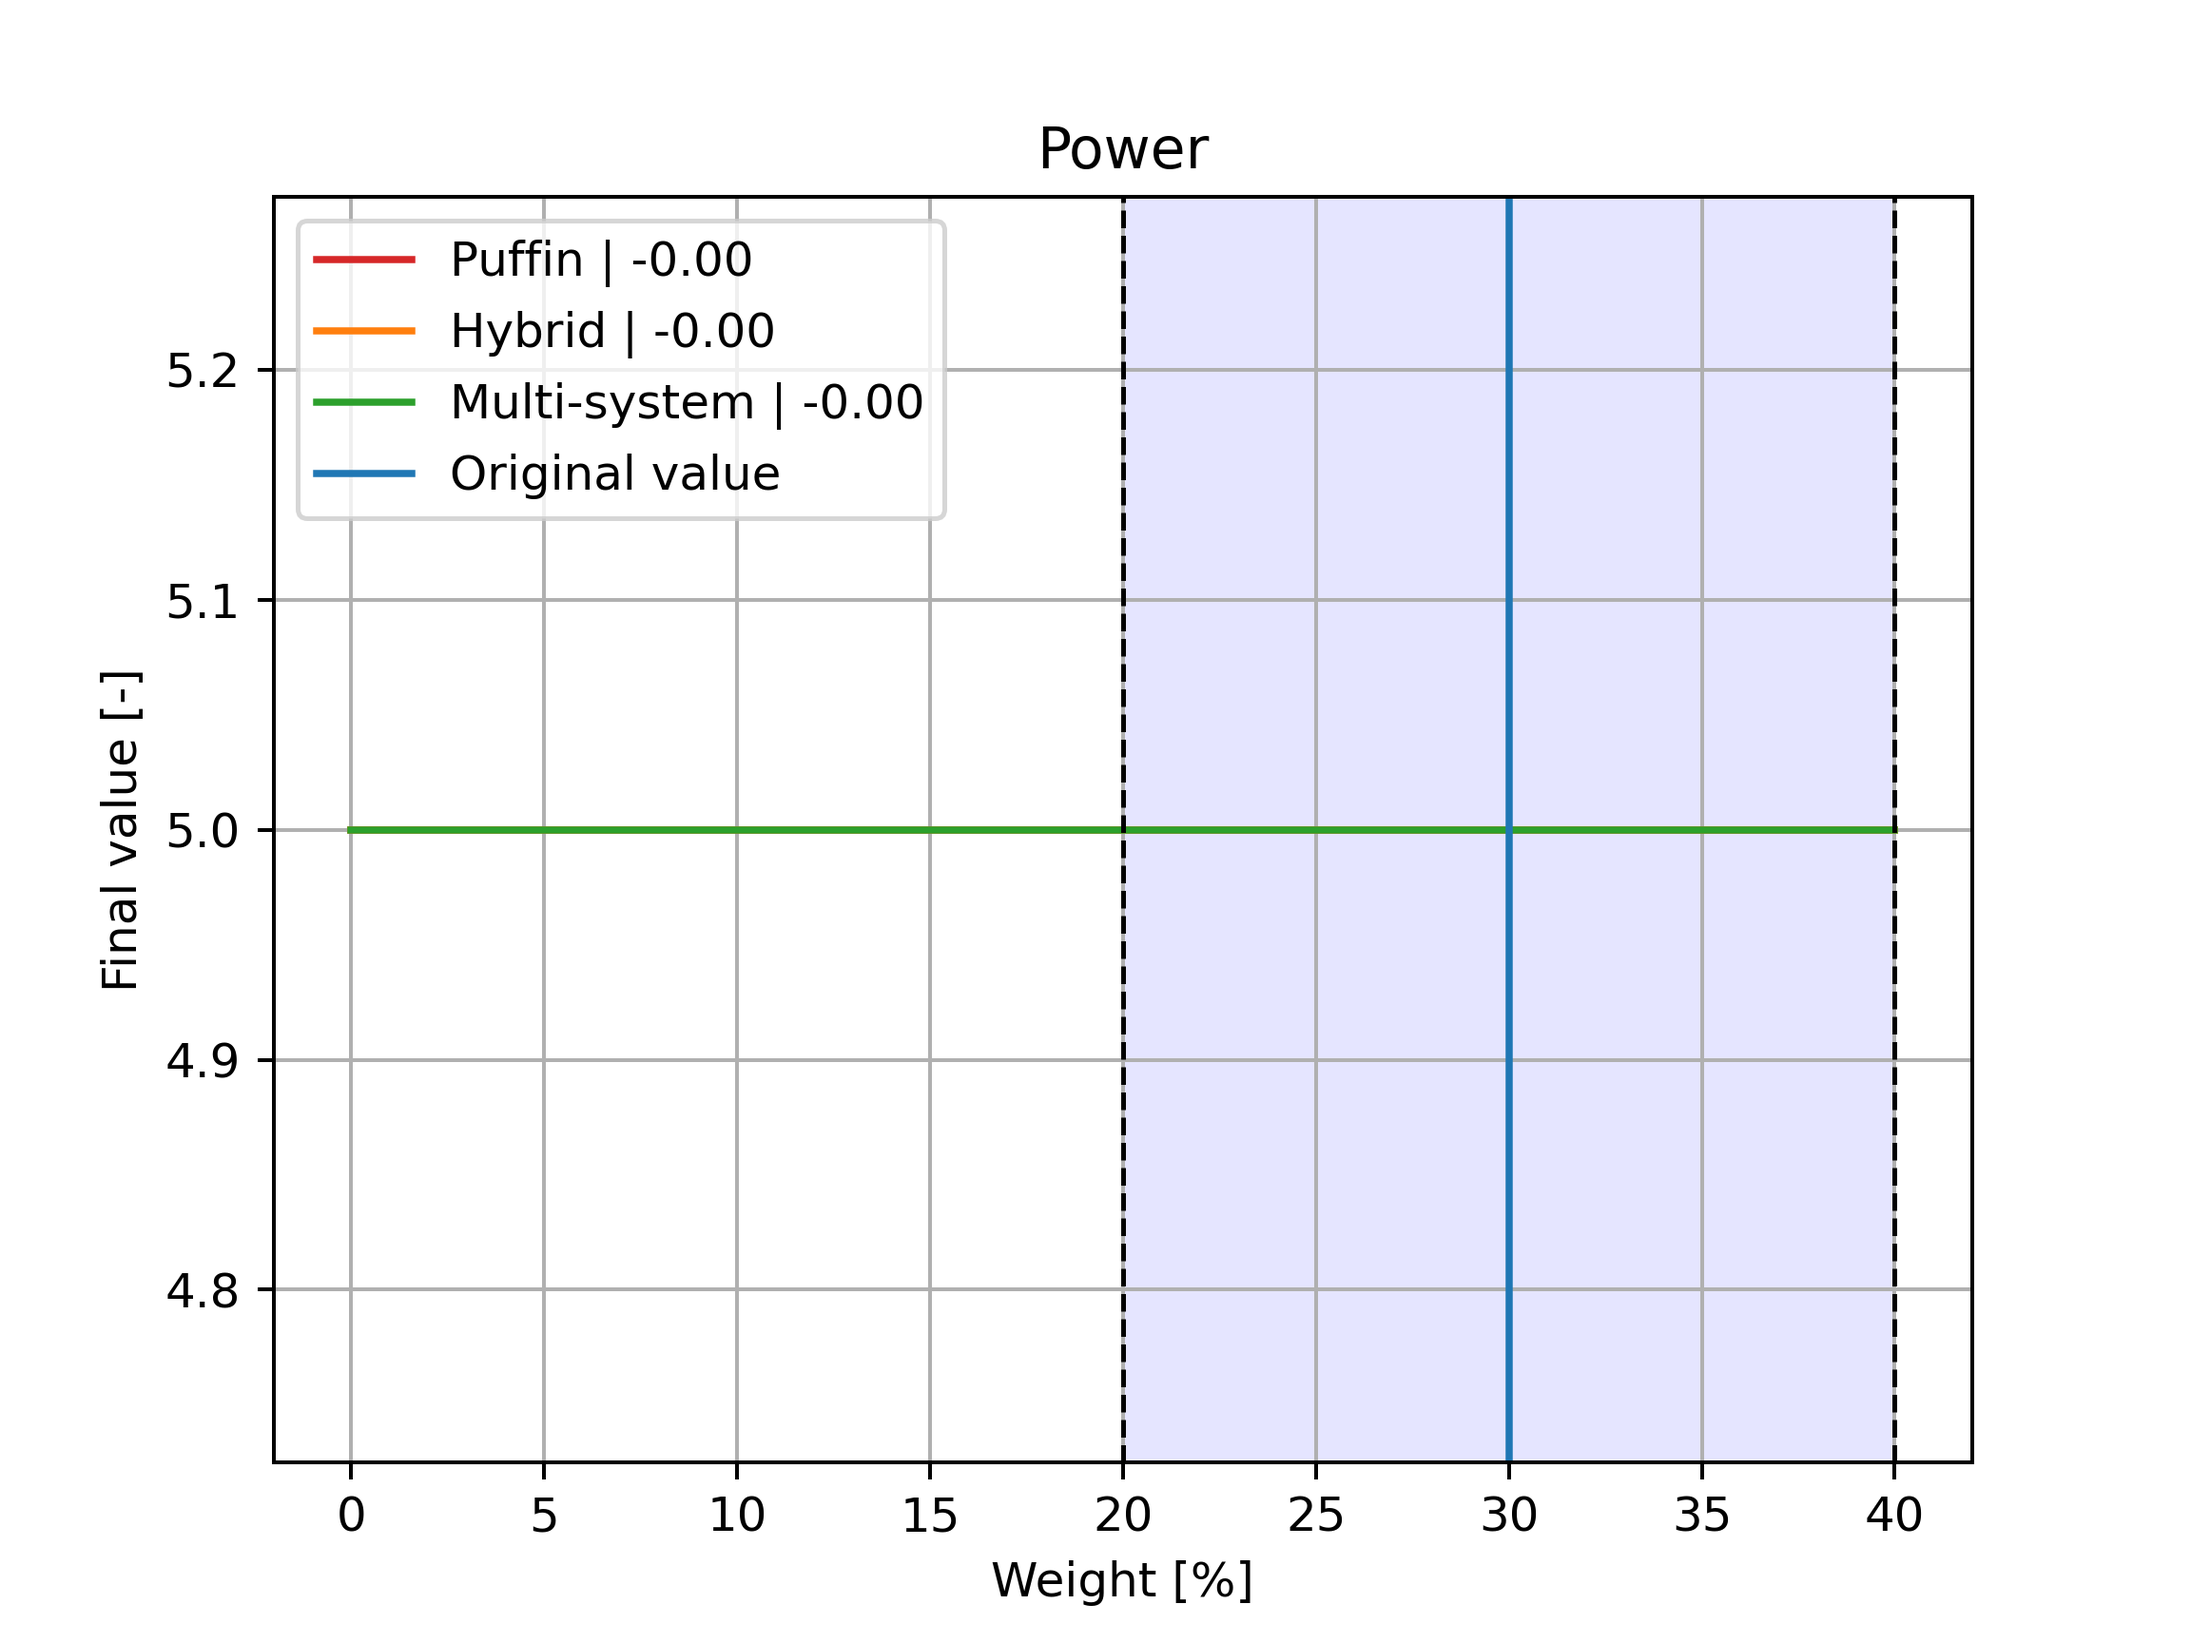
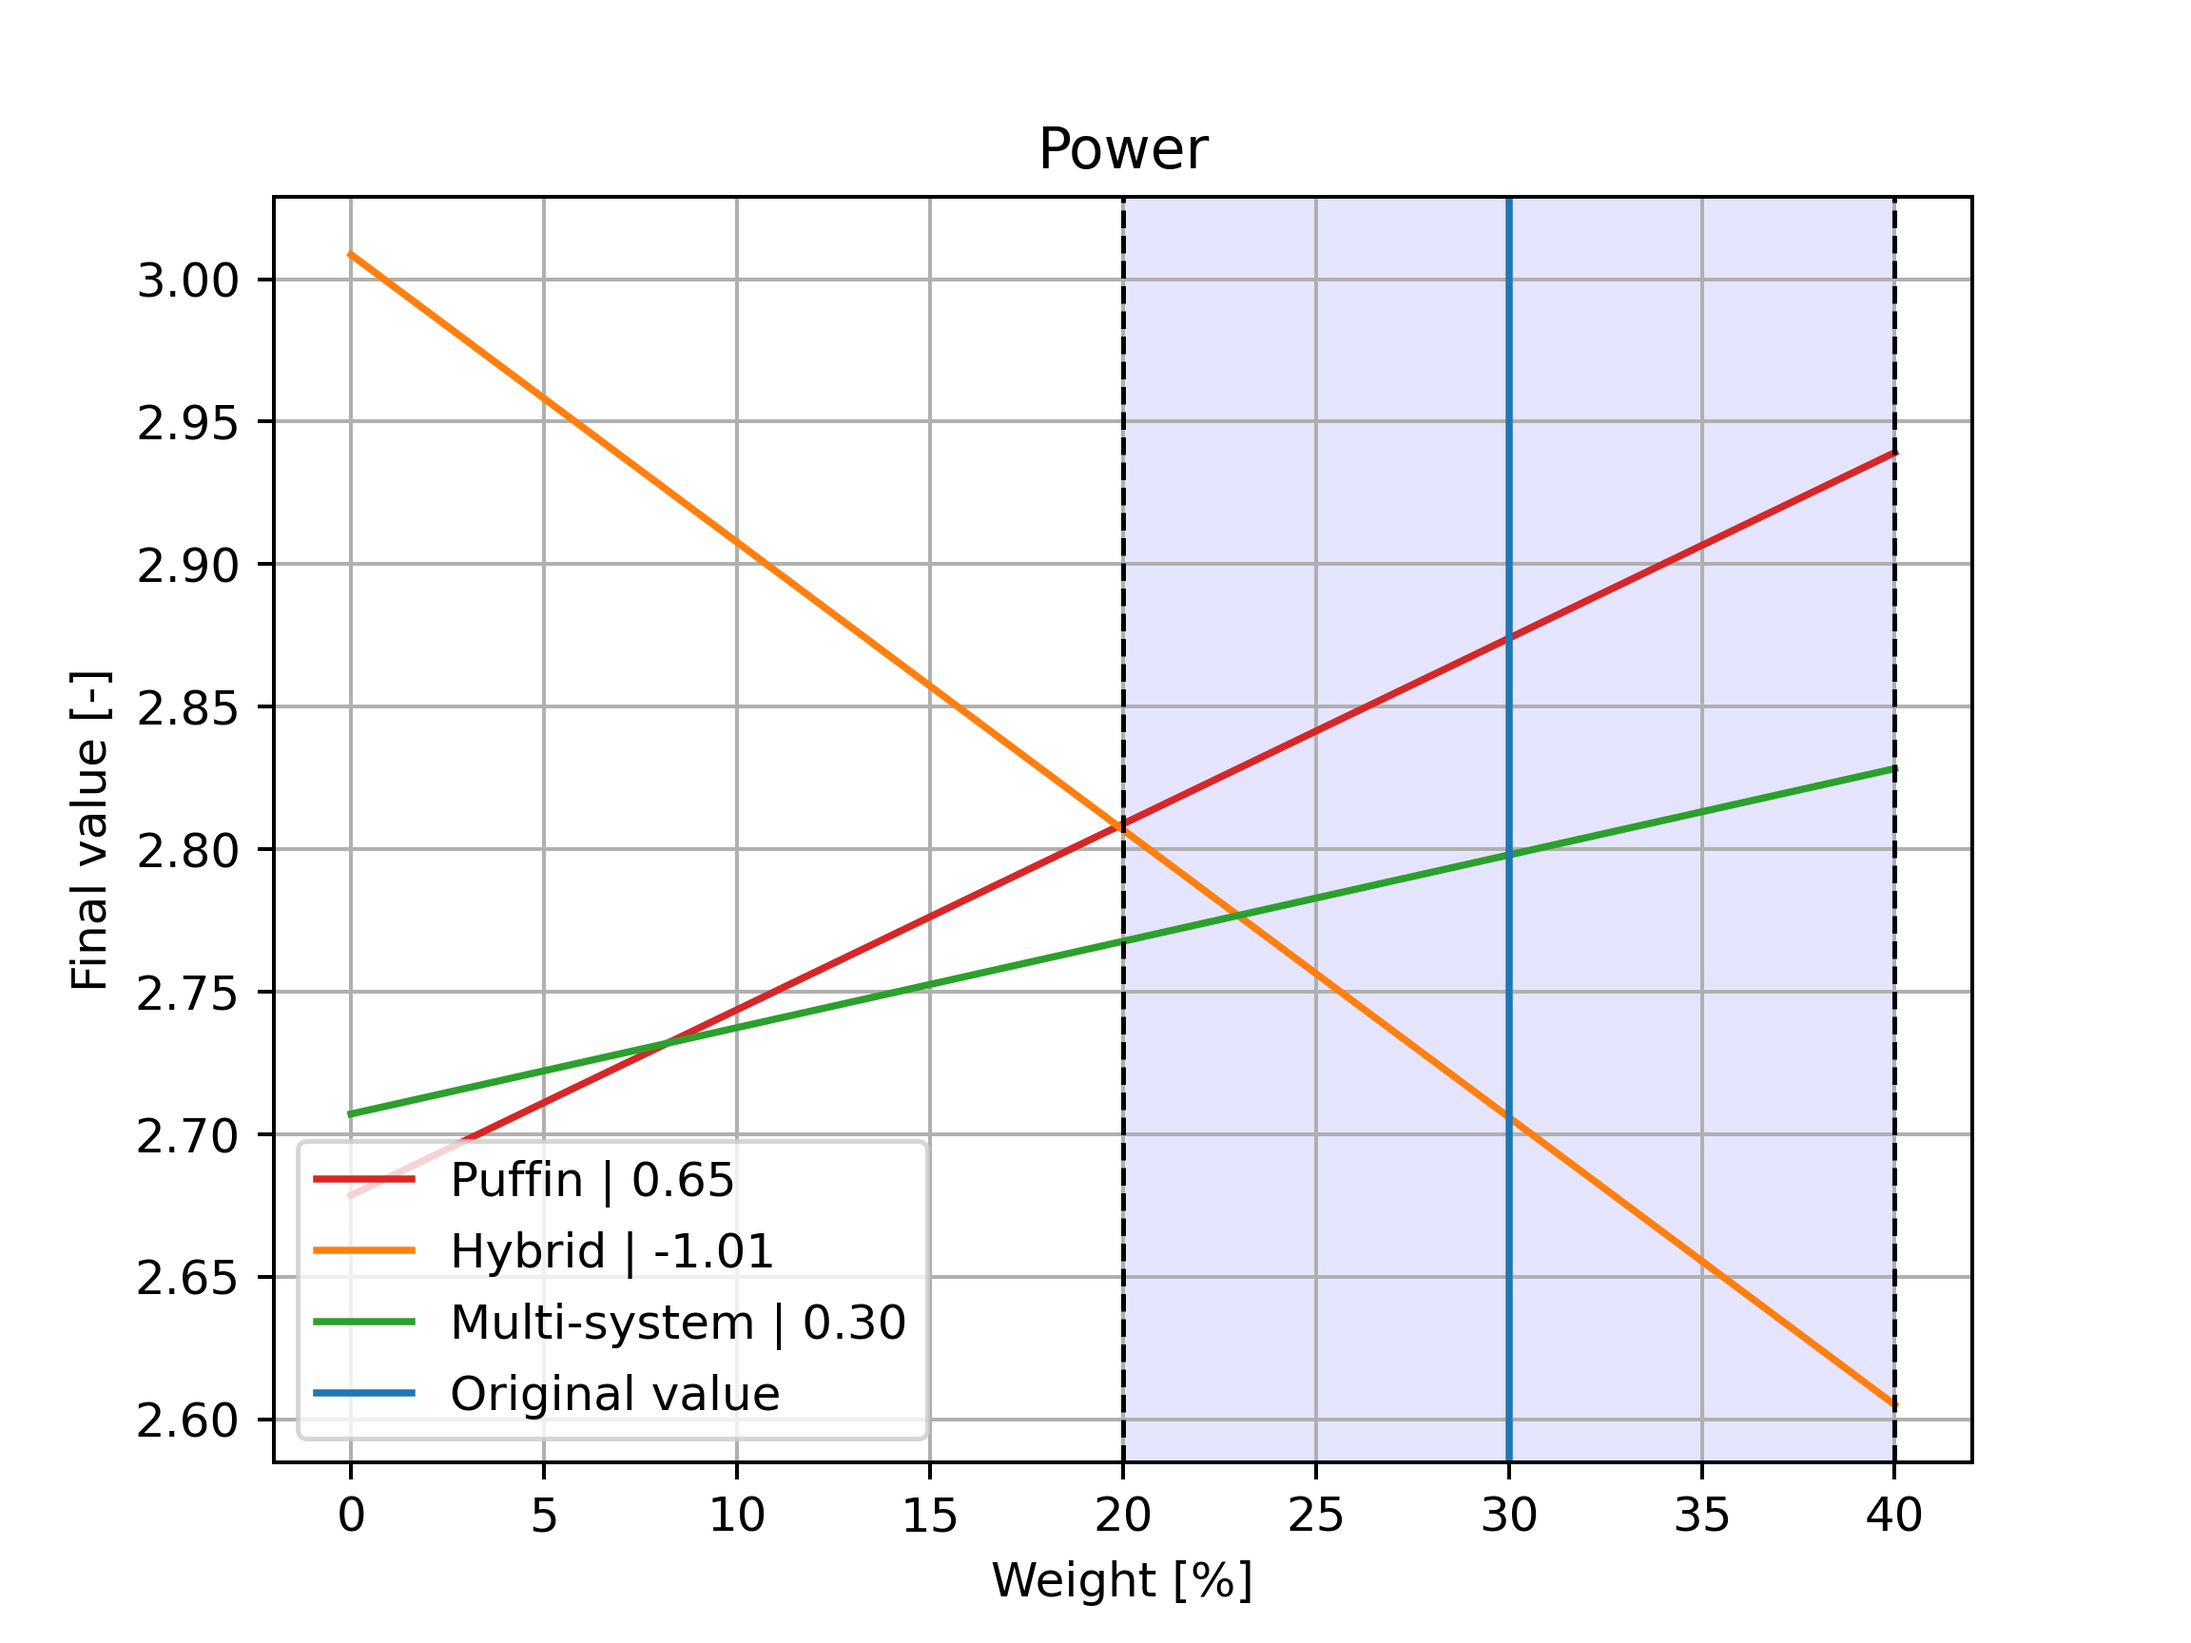
sens plots

diff --git a/Trade-off_Sensitivity-analysis/Cost_sens.py b/Trade-off_Sensitivity-analysis/Cost_sens.py
@@ -14,18 +14,7 @@ def generate_latex_table(row_titles, col_titles, values, weights):
     formatted_grades = []
     total = []
     for i in range(len(values)):
-        placeholder = round(trade(values[i], weights), 2)
-        if int(math.floor(placeholder)) == 1:
-            format_total = ('\cellone{\\textbf{' + str(placeholder) + '}}')
-        elif int(math.floor(placeholder)) == 2:
-            format_total = ('\celltwo{\\textbf{' + str(placeholder) + '}}')
-        elif int(math.floor(placeholder)) == 3:
-            format_total = ('\cellthree{\\textbf{' + str(placeholder) + '}}')
-        elif int(math.floor(placeholder)) == 4:
-            format_total = ('\cellfour{\\textbf{' + str(placeholder) + '}}')
-        elif int(math.floor(placeholder)) == 5:
-            format_total = ('\cellfive{\\textbf{' + str(placeholder) + '}}')
-        total.append(format_total)
+        total.append(trade(values[i], weights))
         vals = []
         for j in range(len(values[i])):
             if int(math.floor(values[i][j])) == 1:
@@ -50,46 +39,20 @@ def generate_latex_table(row_titles, col_titles, values, weights):
     latex_table += "\\begin{tabular}{|l|" + ''.join(width) + "p{1.5cm}|}\\\ \hline\n"
     # Column titles
     latex_table += "Concepts & " + " & ".join(col_titles) + " & \\textbf{Total}" + "\\\ \hline\n"
-    weights = [str(weights[i]) for i in range(len(weights))]
-    latex_table += "Weights & " + " & ".join(weights) + " & \\textbf{100}" + "\\\ \hline\n"
 
     # Rows with values
     for i in range(num_rows):
-        latex_table += row_titles[i] + " & " + " & ".join(formatted_grades[i]) + f" & {total[i]}" + "\\\ \hline\n"
+        latex_table += row_titles[i] + " & " + " & ".join(formatted_grades[i]) + f"{total[i]}" + "\\\ \hline\n"
 
     # End LaTeX table
     latex_table += "\end{tabular}\n" + "}\n" + "\end{table}"
     return latex_table
 
 
-def sub_sens(grades, w, index_w, sub_w, index_sub, sub_v):
-    v_puff, v_hyb, v_ms = grades[0], grades[1], grades[2]
-    sub_w = [sub_w[i] / 100 for i in range(len(sub_w))]
-    w = [w[i] / 100 for i in range(len(w))]
-    sub_weights = copy.deepcopy(sub_w)
-    res_puff, res_hyb, res_ms = [], [], []
-    w_init = 0.4
-    while w_init >= 0:  # Iteration over weights & calculating final trade value for each weight
-        for j in range(len(sub_w)):
-            sub_weights[j] = sub_w[j] / (1 - sub_w[index_sub]) * (1 - w_init)
-        sub_weights[index_sub] = w_init
-
-        v_puff[index_w] = trade(sub_v[0], sub_w)
-        v_hyb[index_w] = trade(sub_v[1], sub_w)
-        v_ms[index_w] = trade(sub_v[2], sub_w)
-
-        res_puff.append(trade(v_puff, w))
-        res_hyb.append(trade(v_hyb, w))
-        res_ms.append(trade(v_ms, w))
-
-        w_init -= 0.05
-        w_init = round(w_init, 4)  # remove float innacuracies
-
-    return [res_puff, res_hyb, res_ms]
 
 
-def sens(grades, w):
-    v_puff, v_hyb, v_ms = grades[0], grades[1], grades[2]
+
+def sens(v_puff, v_hyb, v_ms, w):
     w = [w[i] / 100 for i in range(len(w))]
     res_1, res_2, res_3 = [], [], []
     for i in range(len(w)):
@@ -104,45 +67,31 @@ def sens(grades, w):
             res_hyb = trade(v_hyb, weights)
             res_puff = trade(v_puff, weights)
             res_ms = trade(v_ms, weights)
-            sub_1.append(res_puff)
-            sub_2.append(res_hyb)
+            sub_1.append(res_hyb)
+            sub_2.append(res_puff)
             sub_3.append(res_ms)
             w_init -= 0.05
             w_init = round(w_init, 4)  # remove float innacuracies
         res_1.append(sub_1)
         res_2.append(sub_2)
         res_3.append(sub_3)
-    return [res_1, res_2, res_3]
+        results = [res_1, res_2, res_3]
+    return results
 
 
-def plot_full():
-    return ""
-
-
-# ---- Criteria ----
 criteria = ['Power', 'Cost', 'Reliability', 'Market']
 weights = [30, 30, 25, 15]
 systems = ['Puffin', 'Hybrid', 'Multi-system']
-grades = [[3.33, 2, 3, 3.5], [2, 2.77, 3, 3.5], [3.01, 2.25, 2.78, 3.5]]
-
-# ---- Sub-Criteria ----
-power_w = [25, 10, 40, 25]
-power_v = [[2.79, 2.23, 2.00, 1], [2.19, 4.03, 2.02, 4], [2.00, 2.00, 2.16, 3]]  # puffin, hybrid, multi-system
-cost_w = [25, 10, 40, 25]
-cost_v = [[2.79, 2.23, 2.00, 1], [2.19, 4.03, 2.02, 4], [2.00, 2.00, 2.16, 3]]  # puffin, hybrid, multi-system
-reliability_w = [25, 10, 40, 25]
-reliability_v = [[2.79, 2.23, 2.00, 1], [2.19, 4.03, 2.02, 4], [2.00, 2.00, 2.16, 3]]  # puffin, hybrid, multi-system
-market_w = [25, 10, 40, 25]
-market_v = [[2.79, 2.23, 2.00, 1], [2.19, 4.03, 2.02, 4], [2.00, 2.00, 2.16, 3]]  # puffin, hybrid, multi-system\
-
+grades = [[3.06, 1.97, 2.97, 3], [2.18, 2.76, 2.98, 3.5], [2.23, 2.31, 2.75, 3.5]]
 tab = generate_latex_table(systems, criteria, grades, weights)  # generate latex code for table
+print(tab)
+v_hyb = grades[1]
+v_puff = grades[0]
+v_ms = grades[2]
 
-results = sens(grades, weights)  # generate results of sensitivity analysis
-sub_results = sub_sens(grades, weights, 1, cost_w, 3, cost_v)
+results = sens(v_hyb, v_puff, v_ms, weights)  # generate results of sensitivity analysis
 
-# ---- Plotting ----
 colors = ['tab:red', 'tab:orange', 'tab:green', 'tab:blue', 'tab:purple']
-
 for i in range(len(criteria)):
     fig = plt.figure()
     for j in range(3):
@@ -161,13 +110,6 @@ for i in range(len(criteria)):
     plt.ylabel(ylabel='Final value [-]')
     plt.legend()
     plt.grid()
-    plt.savefig(f'{criteria[i]}_diagram.png', dpi=360)
-'''
-print(sub_results)
-for i in range(len(sub_results)):
-    values = sub_results[i]
-    values.reverse()
-    slope = (values[-1] - values[0]) / 40
-    plt.plot(np.arange(0, 45, 5), values, color=colors[i], label=systems[i]+f' | {(slope * 100):2.2f}')'''
-
+    plt.show()
+    # plt.savefig(f'{criteria[i]}_diagram.png', dpi=360)
 
